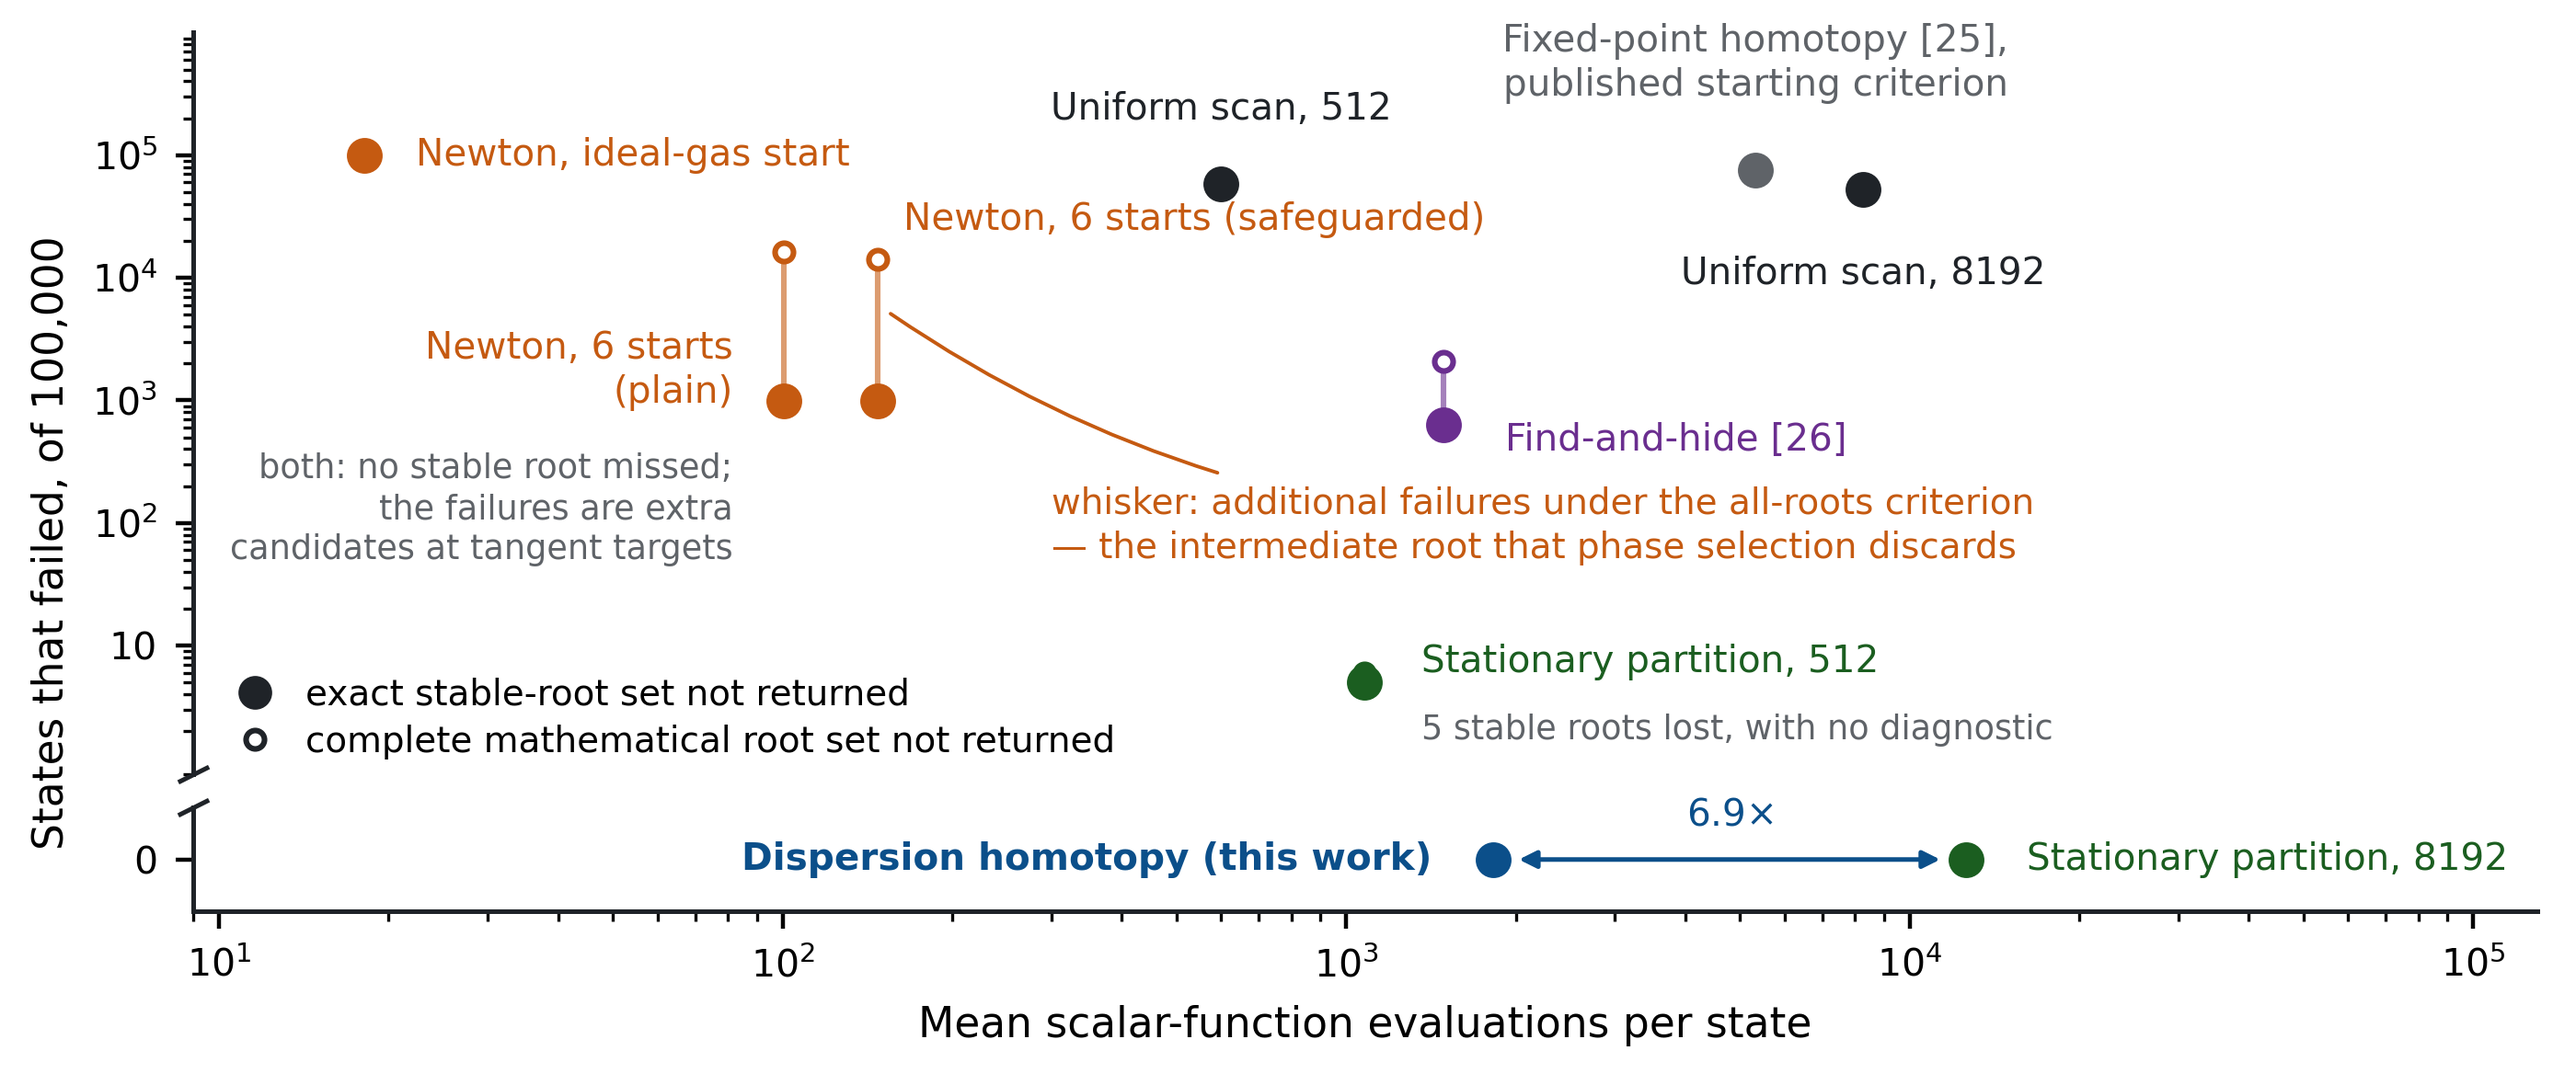
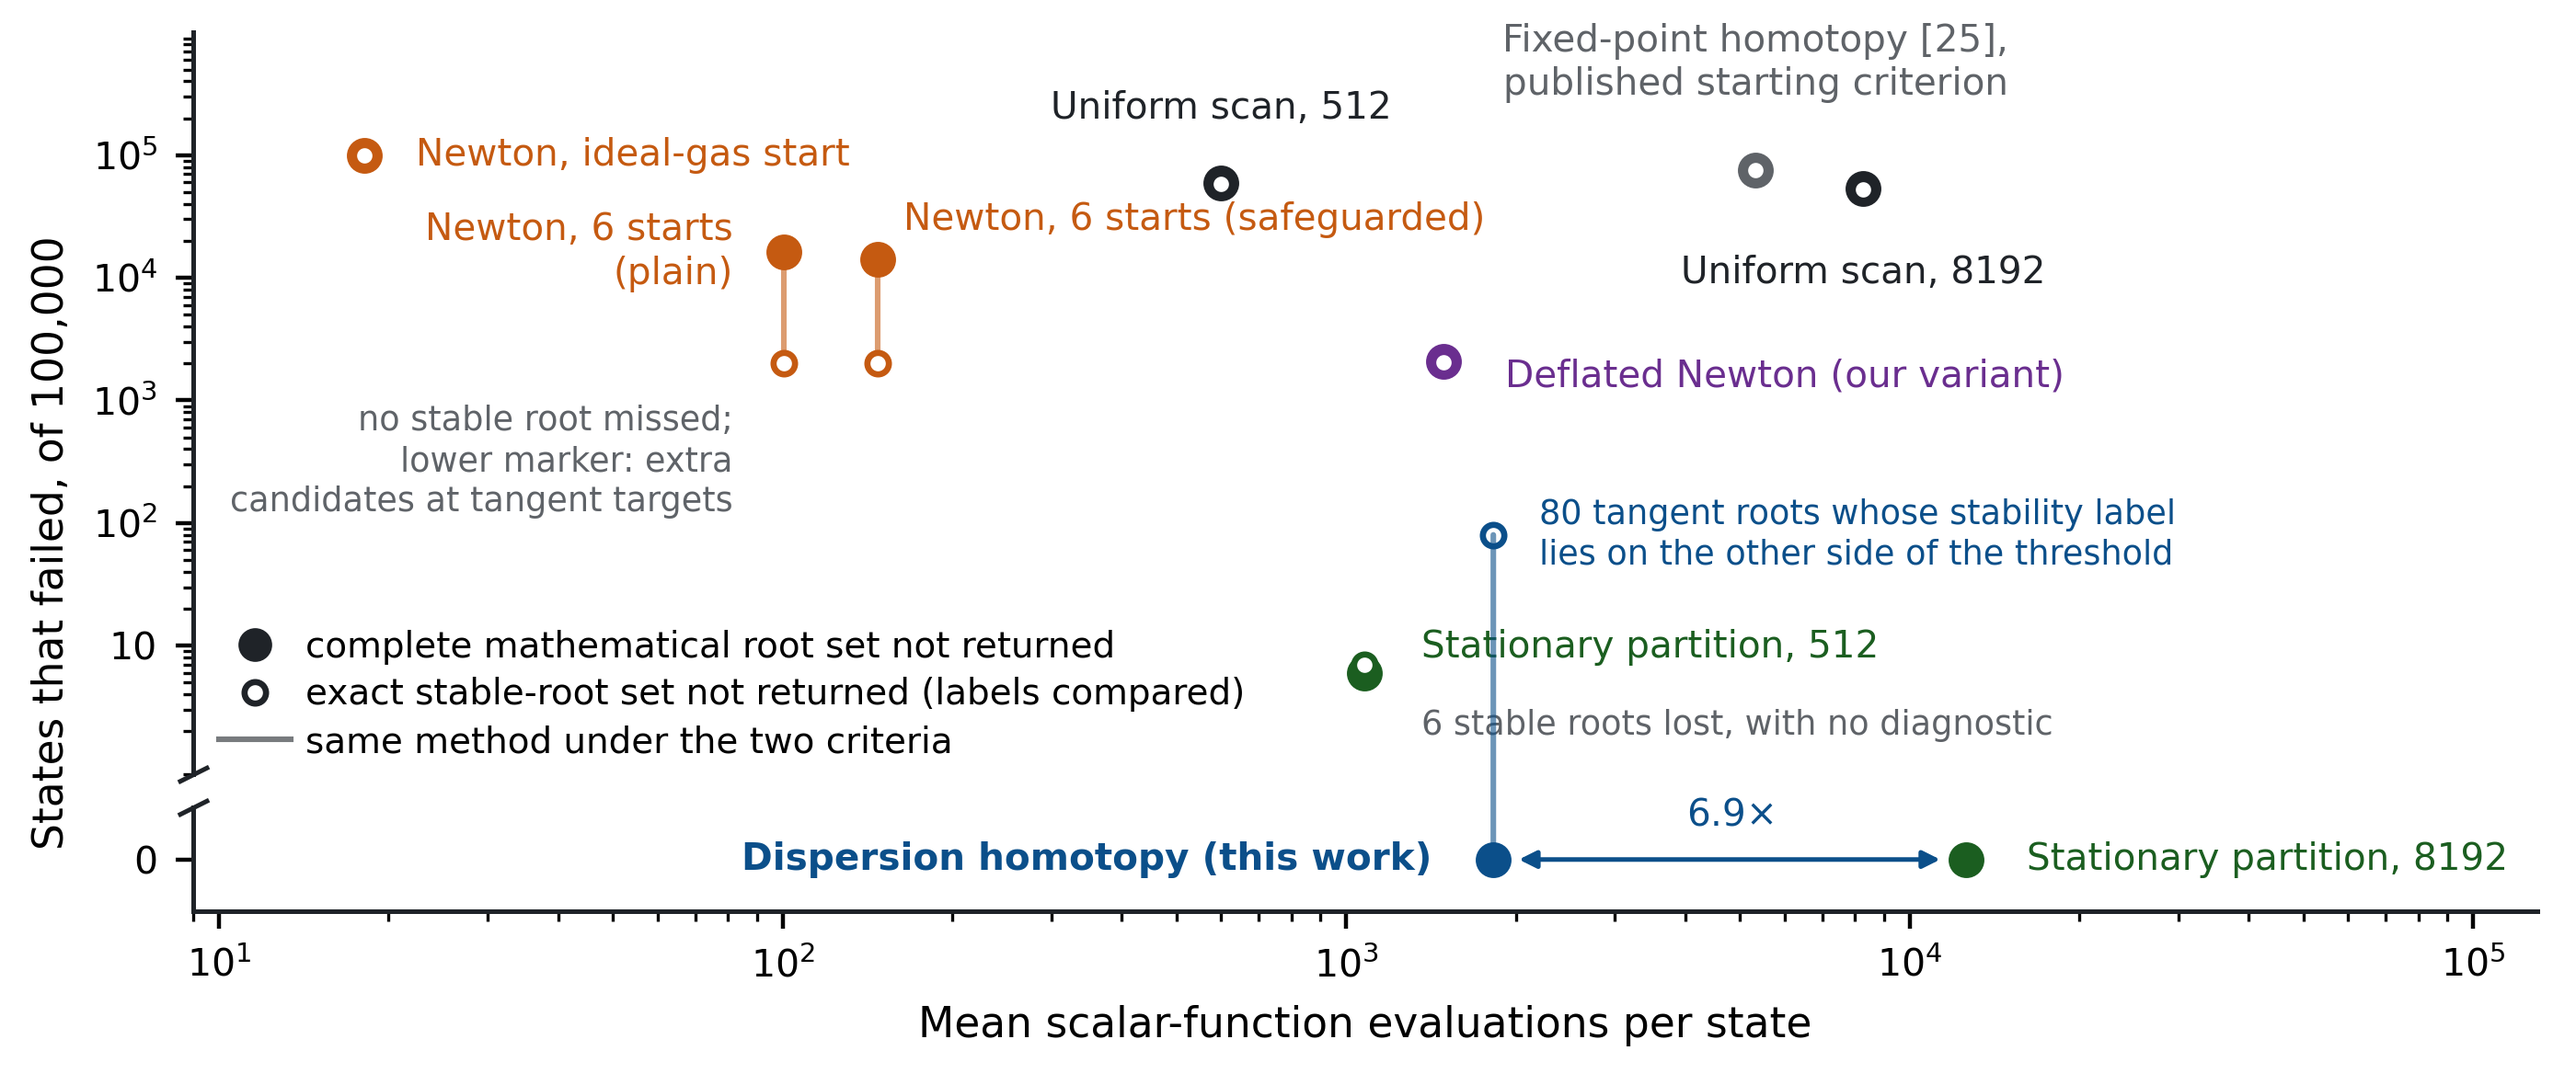
Compare labelled stable subsets; refresh results, figures and docs
The exact-stable-set criterion now reduces the reference and returned roots
to their stable subsets at the same chi threshold and matches the subsets
by density, so a correctly located root carrying the other stability label
counts as a failure; the summary reports the number of such states. The
results tables and README figures are regenerated from the rerun, the
deflation baseline is labelled as our own variant of the find-and-hide
hiding step, and the flowchart follows the solver's control-flow order.

Claude-Session: https://claude.ai/code/session_017oZdTFDGHmm1o7F1F1uRon

diff --git a/include/full_solver_benchmark.hpp b/include/full_solver_benchmark.hpp
@@ -2,6 +2,7 @@
 
 #include <algorithm>
 #include <cmath>
+#include <limits>
 #include <vector>
 
 namespace solver_benchmark {
@@ -98,10 +99,98 @@ inline std::vector<Root> merge_roots(
 }
 
 // Stable-set comparison at an explicit dimensionless threshold, applied
-// symmetrically to the reference and the returned roots.  Returns the number
-// of reference stable roots not matched and returned stable roots not
-// matching, so that the exact-stable-set criterion can be evaluated at
-// several thresholds from one run.
+// symmetrically to the reference and the returned roots.  Both sides are
+// first reduced to their stable subsets (chi > chi_tolerance); the two
+// subsets are then matched by density.  A reference stable root whose
+// returned counterpart is classified marginal or unstable therefore counts
+// as missing, and a returned root classified stable whose reference
+// counterpart is not counts as extra: the exact-stable-set criterion compares
+// the sets an outer phase calculation would actually receive.
+struct StableComparison {
+    int reference_stable = 0;
+    int returned_stable = 0;
+    int missed_stable = 0;
+    int extra_stable = 0;
+    // matched density pairs whose stable membership disagrees between the
+    // reference and the returned root
+    int membership_mismatches = 0;
+    bool complete = false;
+};
+
+inline StableComparison compare_stable_subsets(
+    const std::vector<Root>& reference,
+    const std::vector<Root>& returned,
+    double relative_tolerance,
+    double chi_tolerance) {
+    StableComparison result;
+    std::vector<Root> reference_stable;
+    std::vector<Root> returned_stable;
+    for (const auto& root : reference) {
+        if (classify(root, chi_tolerance) == Stability::stable) {
+            reference_stable.push_back(root);
+        }
+    }
+    for (const auto& root : returned) {
+        if (classify(root, chi_tolerance) == Stability::stable) {
+            returned_stable.push_back(root);
+        }
+    }
+    result.reference_stable = static_cast<int>(reference_stable.size());
+    result.returned_stable = static_cast<int>(returned_stable.size());
+
+    std::vector<bool> reference_matched(reference_stable.size(), false);
+    std::vector<bool> returned_matched(returned_stable.size(), false);
+    for (std::size_t r = 0; r < returned_stable.size(); ++r) {
+        std::size_t best = reference_stable.size();
+        double best_difference = std::numeric_limits<double>::infinity();
+        for (std::size_t i = 0; i < reference_stable.size(); ++i) {
+            if (reference_matched[i] ||
+                !same_root(reference_stable[i], returned_stable[r],
+                           relative_tolerance)) {
+                continue;
+            }
+            const double difference = std::abs(
+                reference_stable[i].density - returned_stable[r].density);
+            if (difference < best_difference) {
+                best = i;
+                best_difference = difference;
+            }
+        }
+        if (best == reference_stable.size()) {
+            continue;
+        }
+        reference_matched[best] = true;
+        returned_matched[r] = true;
+    }
+    for (std::size_t i = 0; i < reference_stable.size(); ++i) {
+        if (!reference_matched[i]) {
+            ++result.missed_stable;
+            // was the density itself returned, only with another class?
+            for (const auto& root : returned) {
+                if (same_root(reference_stable[i], root, relative_tolerance) &&
+                    classify(root, chi_tolerance) != Stability::stable) {
+                    ++result.membership_mismatches;
+                    break;
+                }
+            }
+        }
+    }
+    for (std::size_t r = 0; r < returned_stable.size(); ++r) {
+        if (!returned_matched[r]) {
+            ++result.extra_stable;
+            for (const auto& root : reference) {
+                if (same_root(root, returned_stable[r], relative_tolerance) &&
+                    classify(root, chi_tolerance) != Stability::stable) {
+                    ++result.membership_mismatches;
+                    break;
+                }
+            }
+        }
+    }
+    result.complete = result.missed_stable == 0 && result.extra_stable == 0;
+    return result;
+}
+
 inline void compare_stable_at_tolerance(
     const std::vector<Root>& reference,
     const std::vector<Root>& returned,
@@ -109,43 +198,10 @@ inline void compare_stable_at_tolerance(
     double chi_tolerance,
     int& missed_stable,
     int& extra_stable) {
-    missed_stable = 0;
-    extra_stable = 0;
-    std::vector<bool> reference_matched(reference.size(), false);
-    std::vector<bool> returned_matched(returned.size(), false);
-    for (std::size_t r = 0; r < returned.size(); ++r) {
-        std::size_t best = reference.size();
-        double best_difference = std::numeric_limits<double>::infinity();
-        for (std::size_t i = 0; i < reference.size(); ++i) {
-            if (reference_matched[i] ||
-                !same_root(reference[i], returned[r], relative_tolerance)) {
-                continue;
-            }
-            const double difference =
-                std::abs(reference[i].density - returned[r].density);
-            if (difference < best_difference) {
-                best = i;
-                best_difference = difference;
-            }
-        }
-        if (best == reference.size()) {
-            continue;
-        }
-        reference_matched[best] = true;
-        returned_matched[r] = true;
-    }
-    for (std::size_t i = 0; i < reference.size(); ++i) {
-        if (!reference_matched[i] &&
-            classify(reference[i], chi_tolerance) == Stability::stable) {
-            ++missed_stable;
-        }
-    }
-    for (std::size_t r = 0; r < returned.size(); ++r) {
-        if (!returned_matched[r] &&
-            classify(returned[r], chi_tolerance) == Stability::stable) {
-            ++extra_stable;
-        }
-    }
+    const auto comparison = compare_stable_subsets(
+        reference, returned, relative_tolerance, chi_tolerance);
+    missed_stable = comparison.missed_stable;
+    extra_stable = comparison.extra_stable;
 }
 
 inline RootComparison compare_roots(

diff --git a/src/external_baseline_benchmark.cpp b/src/external_baseline_benchmark.cpp
@@ -83,6 +83,7 @@ struct Aggregate {
     long long extra = 0;
     long long missed_stable = 0;
     long long extra_stable = 0;
+    long long membership_mismatch_states = 0;
     long long total_calls = 0;
     long long total_wall_time_ns = 0;
     std::vector<double> wall_times_ns;
@@ -388,7 +389,8 @@ void write_summary(
                "complete_stable_tau1e-9,complete_stable_tau1e-8,"
                "total_scalar_calls,mean_scalar_calls,"
                "median_scalar_calls,median_wall_time_ns,p99_wall_time_ns,"
-               "total_wall_time_s,correct_results_per_s\n";
+               "total_wall_time_s,correct_results_per_s,"
+               "stable_membership_mismatch_states\n";
     for (const auto& [method, aggregate] : aggregates) {
         const double states = static_cast<double>(std::max(
             aggregate.states, 1LL));
@@ -413,7 +415,7 @@ void write_summary(
                 << matched_completeness::quantile(aggregate.wall_times_ns, 0.99)
                 << ',' << seconds << ','
                 << (seconds > 0.0 ? aggregate.complete_all / seconds : 0.0)
-                << '\n';
+                << ',' << aggregate.membership_mismatch_states << '\n';
         report << method << ": complete_all " << aggregate.complete_all
                << '/' << aggregate.states << ", complete_stable "
                << aggregate.complete_stable << ", missed_stable "
@@ -529,16 +531,20 @@ void run(
             for (const auto& method : ordered_methods) {
                 auto solved = run_method(state, method);
                 fill_chi(solved.roots, pressure_scale);
-                const auto comparison = solver_benchmark::compare_roots(
+                auto comparison = solver_benchmark::compare_roots(
                     reference, solved.roots, 2e-6);
+                // Primary stable-set metrics: stable subsets at the
+                // reference threshold tau_chi = 1e-9, compared by density.
+                const auto primary = solver_benchmark::compare_stable_subsets(
+                    reference, solved.roots, 2e-6, kChiTolerances[1]);
+                comparison.missed_stable = primary.missed_stable;
+                comparison.extra_stable = primary.extra_stable;
+                comparison.complete_stable = primary.complete;
                 bool exact_stable_tau[3];
                 for (int t = 0; t < 3; ++t) {
-                    int missed = 0;
-                    int extra = 0;
-                    solver_benchmark::compare_stable_at_tolerance(
-                        reference, solved.roots, 2e-6, kChiTolerances[t],
-                        missed, extra);
-                    exact_stable_tau[t] = missed == 0 && extra == 0;
+                    const auto at_tau = solver_benchmark::compare_stable_subsets(
+                        reference, solved.roots, 2e-6, kChiTolerances[t]);
+                    exact_stable_tau[t] = at_tau.complete;
                 }
                 rows << csv(state.state_id) << ','
                      << all_root_states::group_name(state) << ','
@@ -567,6 +573,8 @@ void run(
                 aggregate.extra += comparison.extra;
                 aggregate.missed_stable += comparison.missed_stable;
                 aggregate.extra_stable += comparison.extra_stable;
+                aggregate.membership_mismatch_states +=
+                    primary.membership_mismatches > 0 ? 1 : 0;
                 aggregate.total_calls += solved.counter.total();
                 aggregate.total_wall_time_ns += solved.wall_time_ns;
                 aggregate.wall_times_ns.push_back(

diff --git a/README.md b/README.md
@@ -137,7 +137,7 @@ returned completion status certifies.
 |---|---|
 | `include/complete_homotopy_curve.hpp` | the solver: predictor–corrector, event detection, fold handling, termination |
 | `include/fixed_point_homotopy.hpp` | global fixed-point homotopy baseline and its published starting-point criterion |
-| `include/deflation_root_methods.hpp` | find-and-hide by deflation |
+| `include/deflation_root_methods.hpp` | deflated multi-start Newton, our own variant of the find-and-hide hiding step (the published procedure of ref. [26] is realized by the stationary-partition baseline) |
 | `include/direct_root_methods.hpp` | Newton, uniform-scan and stationary-partition baselines |
 | `include/reference_root_isolator.hpp` | independent stationary-point hierarchy used as reference |
 | `include/pcsaft_*.hpp` | PC-SAFT pressure, derivatives and mixture combining rules |
